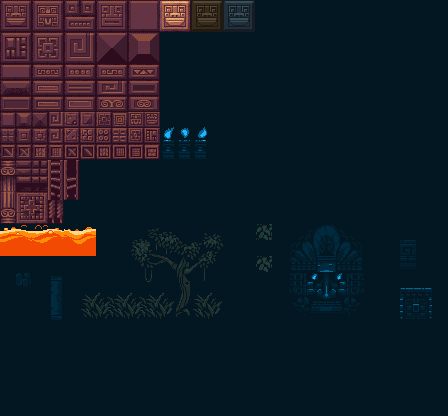
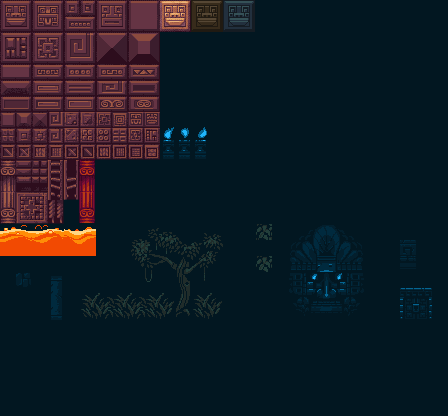
Added flappy feature properly, done transition between minigames, it's kinda playable now

Changed region(s): [[0.1562, 0.375, 0.2188, 0.5625]]

diff --git a/client/public/js/generation.js b/client/public/js/generation.js
@@ -52,10 +52,14 @@ function getRandomBetweenValues(a, b, randomFunction){
     return Math.floor(randomFunction()*(b-a+1)+a);
 }
 
+
+function getPowerupBoxAtHeight(posAx, height){
+    return {object: "powerupBox", intervals:[[posAx, posAx+1, 25-height, 26-height]]};
+}
 function getPillarAtHeight(posAx, height, randomFunction, type){
     let intervals = [];
     let i;
-    if(Math.floor(randomFunction()*101) % 10 != 0){
+    if(Math.floor(randomFunction()*101) % 20 != 0){
         for(i = height-1; i >= 0; i-=2){
             intervals.push([posAx, posAx+1, 24-i, 24-i+1]);
         }
@@ -66,12 +70,13 @@ function getPillarAtHeight(posAx, height, randomFunction, type){
         for(i = height-3; i >= 0; i-=2){
             intervals.push([posAx, posAx+1, 24-i, 24-i+1]);
         }
-        const powerupBox = {object: "powerupBox", intervals: [[posAx, posAx+1, 25-height, 26-height]]};
+        const powerupBox = getPowerupBoxAtHeight(posAx, height);
         if(type === 'pattern')
             return [powerupBox, {object: "box1W2H2", intervals: intervals}];
         return [powerupBox, {object: "box2W2H2", intervals: intervals}];
     }
 }
+
 
 function getColumnAtHeight(posAx, height, length){
     let allCols = [];
@@ -81,6 +86,7 @@ function getColumnAtHeight(posAx, height, length){
     allCols.push({tile: "columnForeground3", intervals: [[posAx, posAx+length, 24, 25]]});
     return allCols;
 }
+
 
 function getHeightsAndPositionsBasedOnNoise(noiseInterval, startIndex, endIndex, edgeOffset, randomFunction, isFlappy){
     let heightPos = [];
@@ -95,10 +101,10 @@ function getHeightsAndPositionsBasedOnNoise(noiseInterval, startIndex, endIndex,
 
 function getHoleAtHeight(posAx, height){
     let allCols = [];
-    allCols.push({tile: "columnForeground0", intervals: [[posAx, posAx+1, 0, 1]]});
-    allCols.push({tile: "columnForeground1", intervals: [[posAx, posAx+1, 1, 2]]});
-    allCols.push({tile: "columnForeground2", intervals: [[posAx, posAx+1, 2, 20 - height], [posAx, posAx+1, 25 - height, 24]]});
-    allCols.push({tile: "columnForeground3", intervals: [[posAx, posAx+1, 24, 25]]});
+    allCols.push({tile: "fireColumnForeground0", intervals: [[posAx, posAx+1, 0, 1]]});
+    allCols.push({tile: "fireColumnForeground1", intervals: [[posAx, posAx+1, 1, 2]]});
+    allCols.push({tile: "fireColumnForeground2", intervals: [[posAx, posAx+1, 2, 20 - height], [posAx, posAx+1, 25 - height, 24]]});
+    allCols.push({tile: "fireColumnForeground3", intervals: [[posAx, posAx+1, 24, 25]]});
     return allCols;
 }
 
@@ -130,57 +136,95 @@ function getPillarsBasedOnPositionsAndHeights(posHeights, randomFunction){
         }
     }
 
-    pillars.push(...getPillarAtHeight(posHeights[posHeights.length-1].xPosition, Math.floor(posHeights[posHeights.length-1].height), randomFunction, 'triangular'));
     pillars.push({tileA: "lava00", tileB: "lava01", intervals:lavaUpperIntervals});
     pillars.push({tileA: "lava10", tileB: "lava11", intervals:lavaMediumIntervals});
     pillars.push({object: "lavaBottom", intervals:lavaBottomIntervals});
+
+    pillars.push(...getPillarAtHeight(posHeights[posHeights.length-1].xPosition, Math.floor(posHeights[posHeights.length-1].height), randomFunction, 'triangular'));
+    
 
     return pillars;
 }
 
 function getFlappyGameBasedOnPositionsAndHeights(posHeights, randomFunction){
     let pillars = [];
-
+    let powerBoxesIntervals = [];
     for(let i = 0; i < posHeights.length-1; i++){
-        let distanceToNext = posHeights[i+1].xPosition - posHeights[i].xPosition;
-        pillars.push(...getHoleAtHeight(posHeights[i].xPosition, Math.floor(posHeights[i].height)));
+        pillars.push(...getHoleAtHeight(posHeights[i].xPosition, Math.floor(posHeights[i].height) + 2));
+        if(i % 2 === 0){
+            const powerXPosition = Math.floor(posHeights[i].xPosition + (posHeights[i+1].xPosition - posHeights[i].xPosition) / 2);
+            const randPos = Math.floor(Math.random() * 25);
+            powerBoxesIntervals.push([powerXPosition, powerXPosition + 1, randPos, randPos + 1]);
+        }
     }
+    pillars.push({object: "powerupBox", intervals: powerBoxesIntervals});
+    pillars.push(...getHoleAtHeight(posHeights[posHeights.length-1].xPosition, Math.floor(posHeights[posHeights.length-1].height) + 2));
     return pillars;
+}
+
+function getJumpingGroundBetweenPositions(posAx, posAy, posBx, posBy, needsPowerup){
+    let groundIntervals = [];
+    let yInterpolation = (posBy - posAy) / (posBx - posAy);
+    if(!needsPowerup){
+        for(let i = posAx; i + 3 < posBx; i+= 6){
+            let step = i - posAx;
+            let correspondingY = Math.floor(posAy + step * yInterpolation);
+            groundIntervals.push([i, i+2, correspondingY, correspondingY+1]);
+        }
+        return [{tileA: "groundA", tileB: "groundB", intervals: groundIntervals}];
+    }else{
+        for(let i = posAx; i + 9 < posBx; i+= 6){
+            let step = i - posAx;
+            let correspondingY = Math.floor(posAy + step * yInterpolation);
+            groundIntervals.push([i, i+2, correspondingY, correspondingY+1]);
+        }
+        if(needsPowerup){
+            console.log(posAx);
+            const powerupBox = getPowerupBoxAtHeight(posBx - 6, 25 - Math.floor(posAy + ((posBx - 6) - posAx) * yInterpolation));
+            return [{tileA: "groundA", tileB: "groundB", intervals: groundIntervals}, powerupBox];
+        }
+    }
+
 }
 
 
 
 export function updateLevel(oldLevel, oldLevelSpecification, oldBackgroundSprites, tilesNumber, noise){
     const level = new Level();
-    const currentNoise = noise.getNextPerlinCurve(16 * tilesNumber);
+    const lavaExtension = (Math.floor(noise.ownRandom() * 101)) % 2 === 0 ? true : false;
+    const currentNoise = noise.getNextPerlinCurve(16 * tilesNumber, (lavaExtension ? 800 : 200));
     const allNewBackgrounds = [];
 
     level.entities = oldLevel.entities;
     const currentEdge = oldLevel.tileCollider.tiles.matrix.grid.length;
     let randFunction = _=>noise.ownRandom();
     
-    const posHeights = getHeightsAndPositionsBasedOnNoise(currentNoise, 0, 16* tilesNumber, currentEdge, randFunction, true);
-    // console.log(noise.ownRandom(), noise.ownRandom(), _=>noise.ownRandom());
-    const pillars = getFlappyGameBasedOnPositionsAndHeights(posHeights, randFunction);
+    const posHeights = getHeightsAndPositionsBasedOnNoise(currentNoise, 0, 16 * (tilesNumber - 25), currentEdge, randFunction, !lavaExtension);
+    const pillars = lavaExtension ? getPillarsBasedOnPositionsAndHeights(posHeights, randFunction) : getFlappyGameBasedOnPositionsAndHeights(posHeights, randFunction);
+
+    
+    const lastPillarXPosition = pillars[pillars.length-1].intervals[pillars[pillars.length-1].intervals.length-1][0];
+    const isNextMinigameFlappy = (Math.floor(noise.ownRandomWithoutModifyingZ(1) * 101)) % 2 === 0 ? false : true;
+    const heightForTransitionPlatforms = (-1 * (posHeights[posHeights.length-1].height - 25)) + (isNextMinigameFlappy ? 2 : 0);
+    const nextHeight = (Math.floor(currentNoise[currentNoise.length-1] / 16) - 25);
+    const middleGround = getJumpingGroundBetweenPositions(lastPillarXPosition + 4, heightForTransitionPlatforms,
+                        currentEdge + tilesNumber, nextHeight,
+                        isNextMinigameFlappy);
+    
 
     let backgrounds = oldLevelSpecification.layers[0].backgrounds;
     let newBackgrounds = getBackgroundBetweenPositions(currentEdge, currentEdge + tilesNumber, 0, 25);
     let colTopBackground = getColumnTopBackgroundBetweenPositions(currentEdge, currentEdge+tilesNumber);
-    let newFloorsAndUnderground = getFloorAndUndergroundBetweenPositions(currentEdge, currentEdge + tilesNumber, 23, 24);
+    // let newFloorsAndUnderground = getFloorAndUndergroundBetweenPositions(currentEdge, currentEdge + tilesNumber, 23, 24);
 
-    allNewBackgrounds.push(newBackgrounds, ...pillars)
-    backgrounds.push(colTopBackground, ...allNewBackgrounds);
+    allNewBackgrounds.push(newBackgrounds, ...pillars, ...middleGround)
+    backgrounds.push(newBackgrounds, colTopBackground, ...pillars, ...middleGround);
     
     let objects = oldLevelSpecification.objects;
     const updatedCollisionGrid = createCollisionGrid([...allNewBackgrounds], objects);
     oldLevel.updateCollisionGrid(updatedCollisionGrid);
     level.tileCollider = oldLevel.tileCollider;
     
-    // level.comp.layers = oldLevel.comp.layers;
-    // const backgroundGrid = createBackgroundGrid(allNewBackgrounds, oldLevelSpecification.objects);
-    // const backgroundLayer = createBackgroundLayer(level, backgroundGrid, oldBackgroundSprites);
-    // level.comp.layers.push(backgroundLayer);
-    // console.log(level.comp.layers);
     oldLevelSpecification.layers.forEach(layer => {
         const backgroundGrid = createBackgroundGrid(layer.backgrounds, oldLevelSpecification.objects);
         const backgroundLayer = createBackgroundLayer(level, backgroundGrid, oldBackgroundSprites);

diff --git a/client/public/js/main.js b/client/public/js/main.js
@@ -60,6 +60,7 @@ Promise.all([
         loadFont()
     ])
     .then(([mario, [level, levelSpecification, backgroundSprites], font]) => {
+        // const seed = Math.random();
         const seed = Math.random();
         let perlinGenerator = new Perlin(seed);
 
@@ -101,7 +102,12 @@ Promise.all([
         const input = setupKeyboard(mario);
         input.listenTo(window);
 
-        [level, levelSpecification, backgroundSprites, currentPerlinNoise] = updateLevel(level, levelSpecification, backgroundSprites, 600, perlinGenerator);
+        [level, levelSpecification, backgroundSprites, currentPerlinNoise] = updateLevel(level, levelSpecification, backgroundSprites, 100, perlinGenerator);
+        [level, levelSpecification, backgroundSprites, currentPerlinNoise] = updateLevel(level, levelSpecification, backgroundSprites, 100, perlinGenerator);
+        [level, levelSpecification, backgroundSprites, currentPerlinNoise] = updateLevel(level, levelSpecification, backgroundSprites, 100, perlinGenerator);
+        [level, levelSpecification, backgroundSprites, currentPerlinNoise] = updateLevel(level, levelSpecification, backgroundSprites, 100, perlinGenerator);
+        [level, levelSpecification, backgroundSprites, currentPerlinNoise] = updateLevel(level, levelSpecification, backgroundSprites, 100, perlinGenerator);
+        [level, levelSpecification, backgroundSprites, currentPerlinNoise] = updateLevel(level, levelSpecification, backgroundSprites, 100, perlinGenerator);
 
         timer.update = function update(deltaTime) {
             savedEntities = level.entities;
@@ -133,10 +139,11 @@ Promise.all([
                 }
 
                 // Game Over
-                if (camera.pos.x > mario.pos.x + 20 || mario.traits.some(e => e.NAME === 'dead')) {
+                if (camera.pos.x > mario.pos.x + 20 || mario.pos.y > 26 * 16 || mario.traits.some(e => e.NAME === 'dead')) {
                     cameraAcceleration = 0;
                     mario.gameOver = true;
                 }
+
                 // Camera threshold right
                 else if (mario.pos.x > camera.pos.x + 350) {
                     cameraAcceleration = 3.5;

diff --git a/client/public/js/TileCollider.js b/client/public/js/TileCollider.js
@@ -29,7 +29,7 @@ export default class TileCollider {
                 return;
             }
 
-            if (match.tile.name.includes('lava')) {
+            if (match.tile.name.includes('lava') || match.tile.name.includes('fireColumn')) {
                 entity.traits.push(new Trait('dead'));
                 return;
             }
@@ -49,7 +49,7 @@ export default class TileCollider {
             if (match.tile.name.includes('powerUp')) {
                 entity.traits.forEach(trait=>{
                     if(trait.NAME === 'jump'){
-                        trait.godTime = 5;
+                        trait.godTime = 4;
                     };
                 });
                 return;
@@ -97,7 +97,7 @@ export default class TileCollider {
             if (match.tile.name.includes('powerUp')) {
                 entity.traits.forEach(trait=>{
                     if(trait.NAME === 'jump'){
-                        trait.godTime = 5;
+                        trait.godTime = 4;
                     };
                 });
                 return;

diff --git a/client/public/js/perlin.js b/client/public/js/perlin.js
@@ -7,7 +7,7 @@ export default class Perlin {
         this.Z = Math.floor(this.seed * this.M);
         this.h = 400;
         this.amp = 250;
-        this.wl = 800;
+        this.wl = 200;
         this.fq = 1 / this.wl;
         this.createNewInit(this.h - 3 * 16);
     }
@@ -27,13 +27,24 @@ export default class Perlin {
         return this.Z / this.M;
     }
 
+    ownRandomWithoutModifyingZ(iterations){
+        let newZ = (this.A * this.Z * this.C) % this.M;
+        if(iterations){
+            for(let i = 0; i < iterations-1; i++)
+                newZ = (this.A * newZ * this.C) % this.M;
+        }
+        return newZ / this.M;
+    }
+
     interpolate(pa, pb, px){
         let ft = px * Math.PI,
             f = (1 - Math.cos(ft)) * 0.5;
         return pa * (1 - f) + pb * f;
     }
 
-    getNextPerlinCurve(len, offset){
+    getNextPerlinCurve(len, wavelength){
+        if(wavelength)
+            this.wl = wavelength;
         let x = 0,
         y = this.h / 2,
         a = this.ownRandom(),

diff --git a/client/public/js/traits/jump.js b/client/public/js/traits/jump.js
@@ -9,7 +9,7 @@ export default class Jump extends Trait {
         this.engageTime = 0;
         this.height = 0;
         this.velocity = 350;
-        this.godTime = 1000;
+        this.godTime = 0;
     }
 
     start() {
